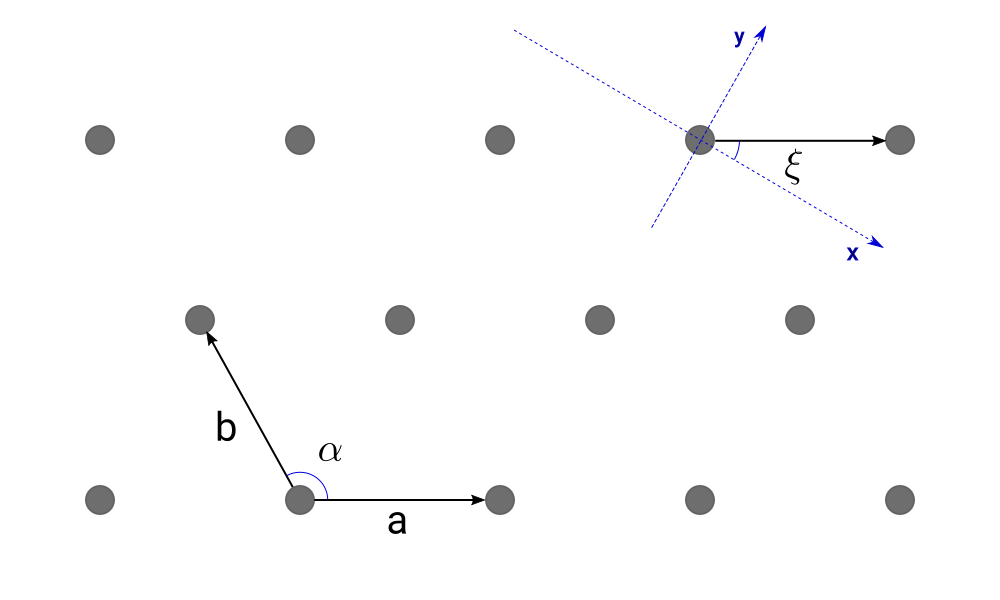
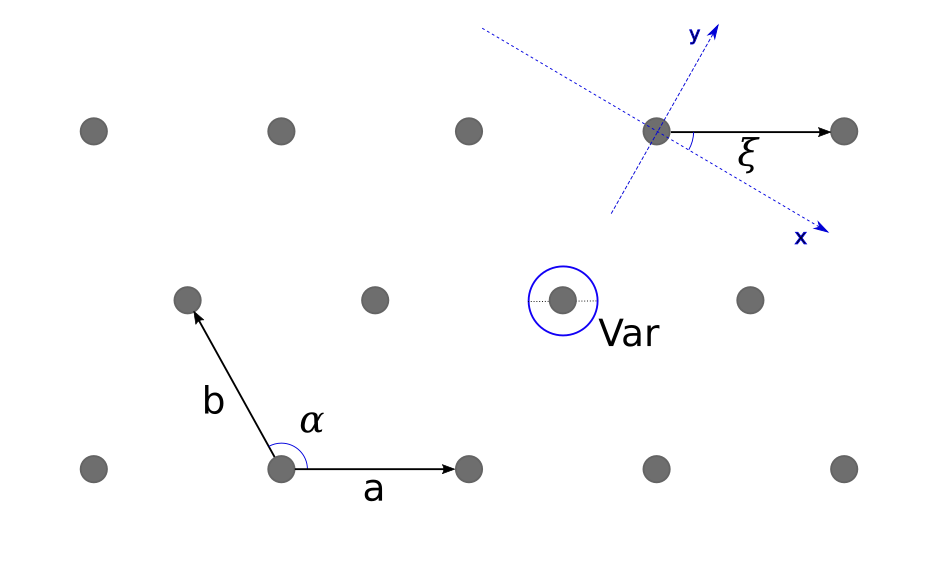
Fix interference function 2d tutorial

diff --git a/content/documentation/working-with-python/interference/lattice2d/index.md b/content/documentation/working-with-python/interference/lattice2d/index.md
@@ -59,7 +59,7 @@ It can be set using `setPositionVariance(value)` method, where `value` is given 
 
 {{< highlight python >}}
 
-lattice = InterferenceFunction1DLattice(100*nm, 0.0*deg)
+lattice = InterferenceFunction2DLattice(100*nm, 100*nm, 90.0*deg)
 lattice.setPositionVariance(0.1)
 {{< /highlight >}}
 
@@ -69,6 +69,9 @@ By default variance is set to zero.
 ### Decay function
 
 To account for finite size effects of the lattice, a decay function should be assigned to the interference function. This function encodes the loss of coherent scattering from lattice points with increasing distance between them. The origin of this loss of coherence could be attributed to the coherence lengths of the beam or to the domain structure of the lattice. The two-dimensional decay function allows for an anisotropy of this effect.
+
+Decay functions for one-dimensional case are explained [here]({{% ref-tutorial "interference/lattice1d" %}}). 
+Decay functions for two-dimensional case work similarly, but requires to `decay_length` parameters abd orientatiion defined.
 
 $x_d$, $y_d$ on the plot below represent an orthonormal coordinate system for the decay distribution in real space. It is rotated by the angle gamma with respect to the first lattice vector $a$. The decay lengths $\lambda_x$ and $\lambda_y$ are given in nanometers.
 

diff --git a/content/documentation/working-with-python/interference/lattice1d/index.md b/content/documentation/working-with-python/interference/lattice1d/index.md
@@ -56,7 +56,7 @@ $\sum F\_{decay}\cdot\delta(x-na)$.
 
 {{< figscg src="lattice1d_decay_real.png" width="800px" class="center">}}
 
-Fourier transformation, applied to the $P(x)$ distribution, provides scattering amplitude in reciprocal space. For exponential decay low with decay length $\lambda$, 
+Fourier transformation, applied to the $P(x)$ distribution, provides scattering amplitude in reciprocal space. For exponential decay law with decay length $\lambda$, 
 as depicted on plot above, it will give Cauchy distribution with characteristic width $1/\lambda$ in reciprocal space, as shown below.
 
 {{< figscg src="lattice1d_decay_reciprocal.png" width="800px" class="center">}}
